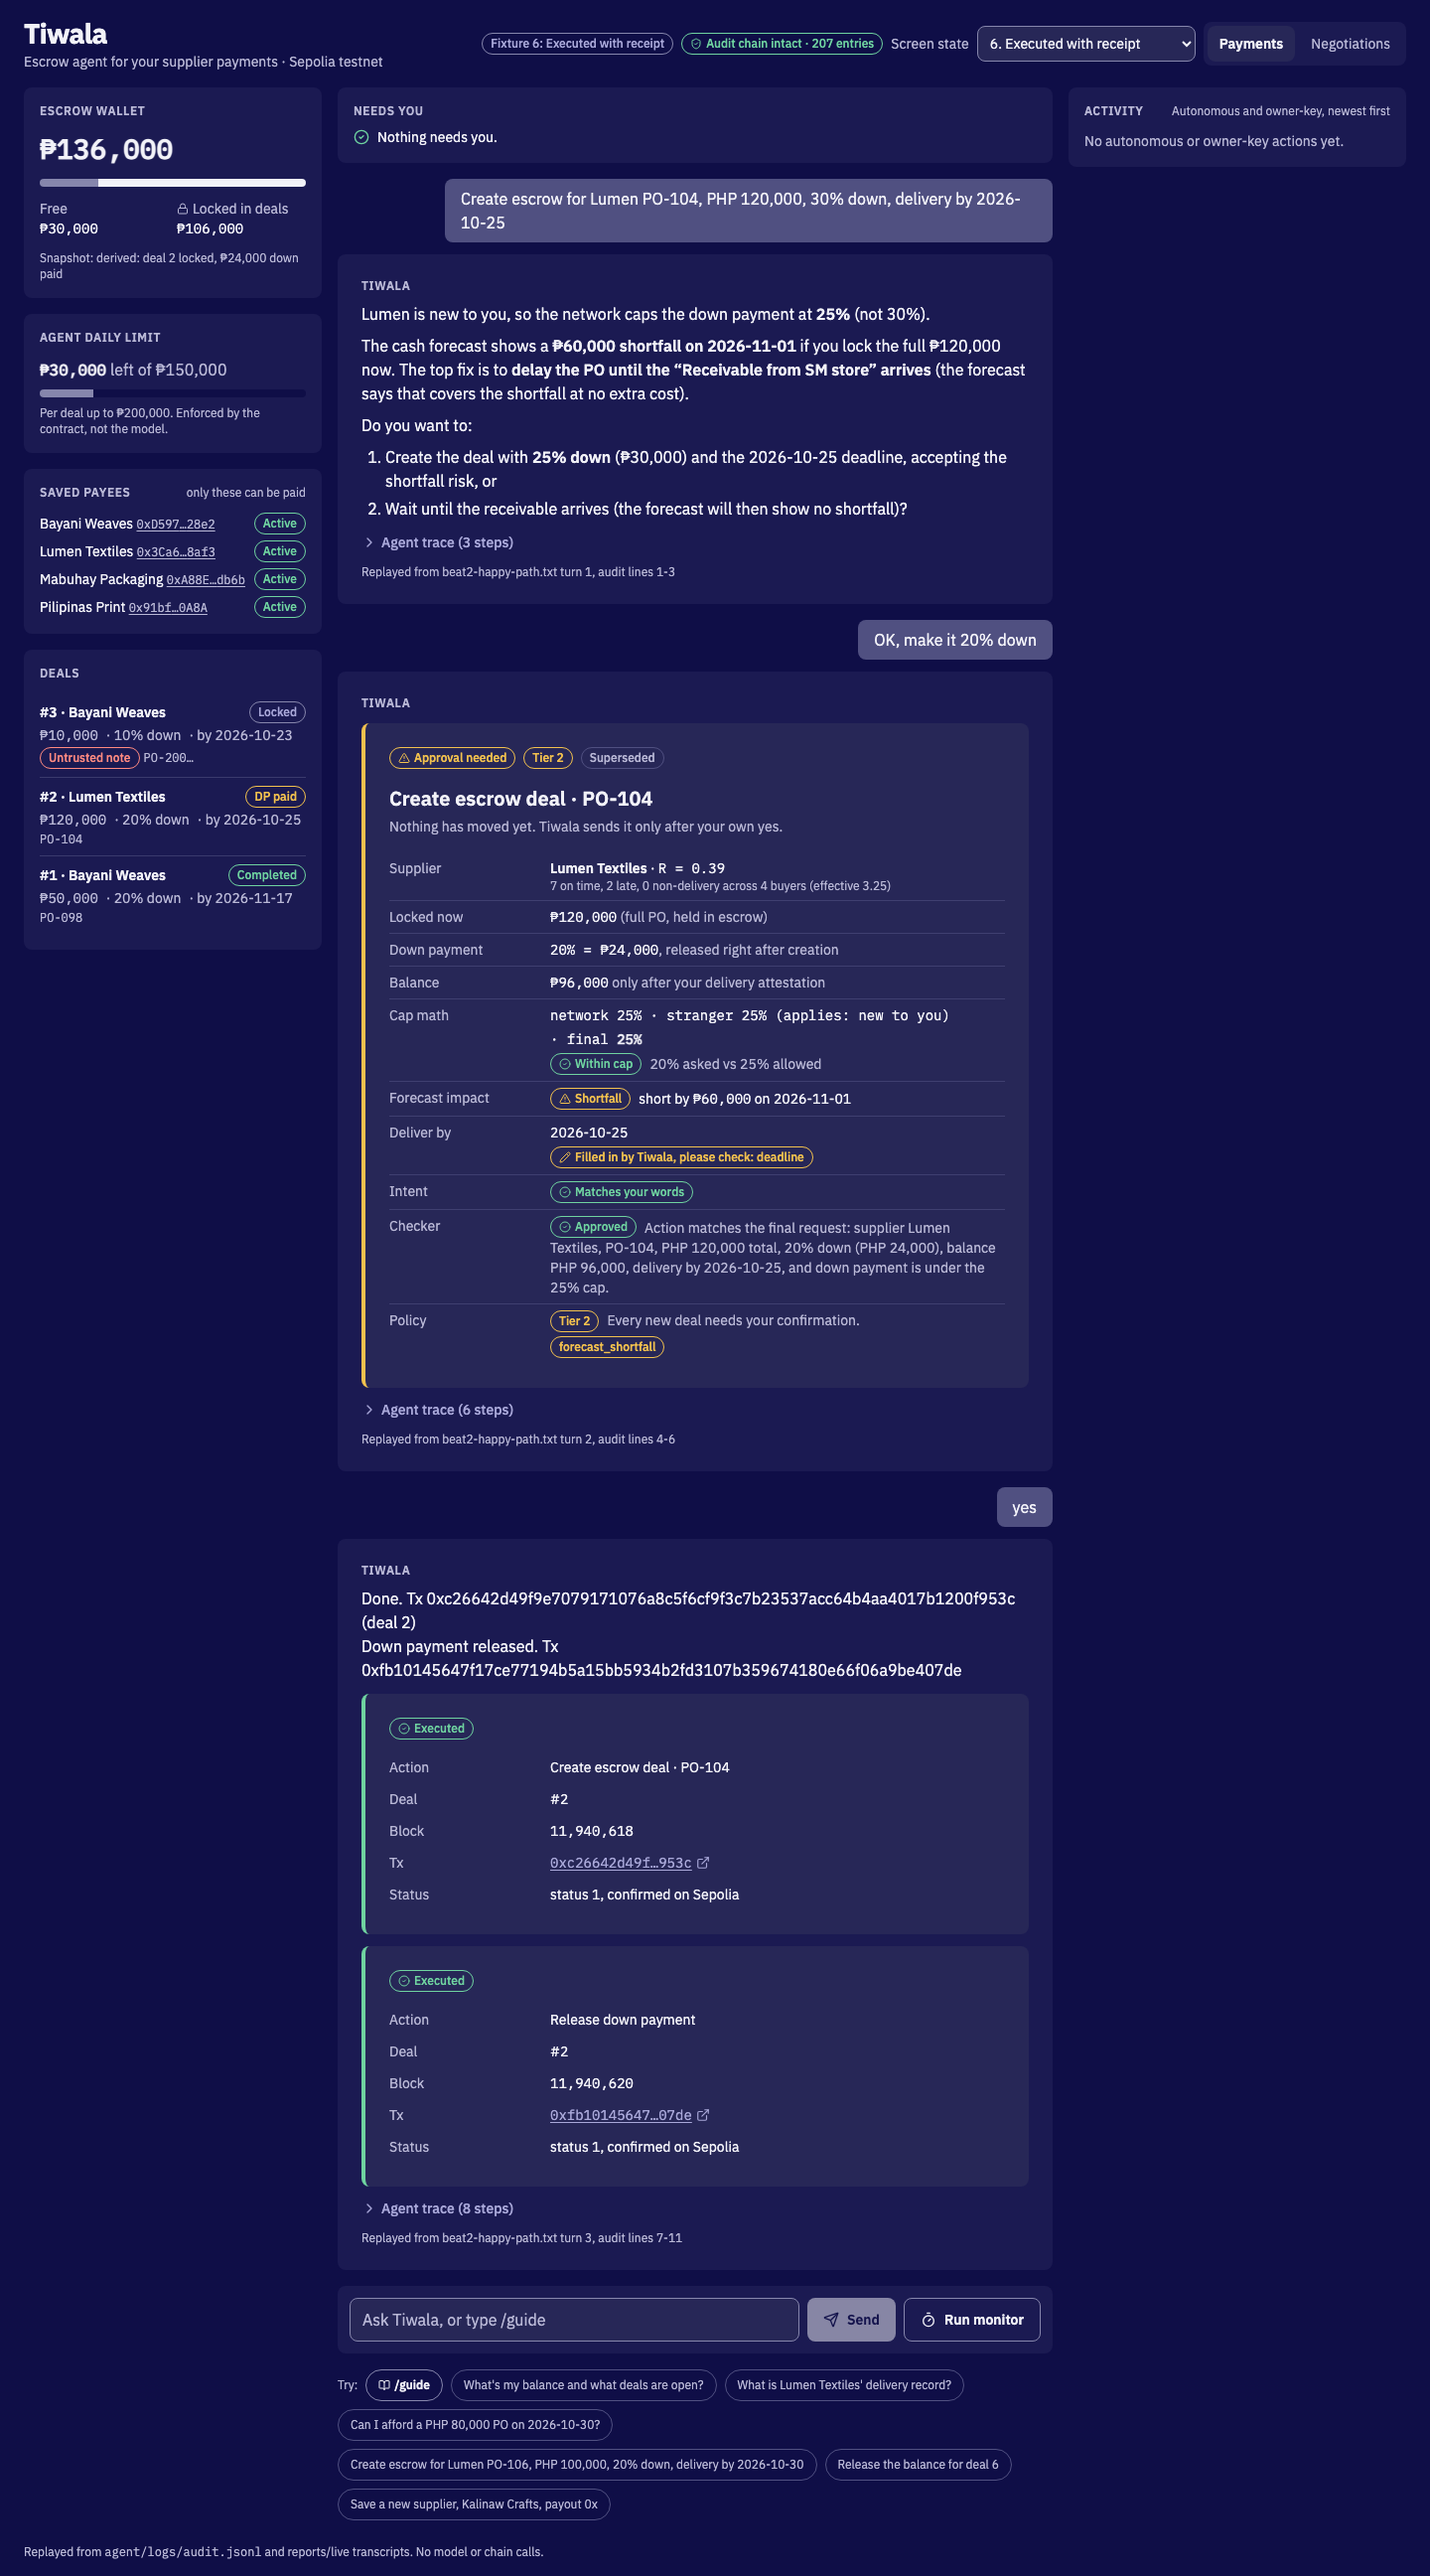
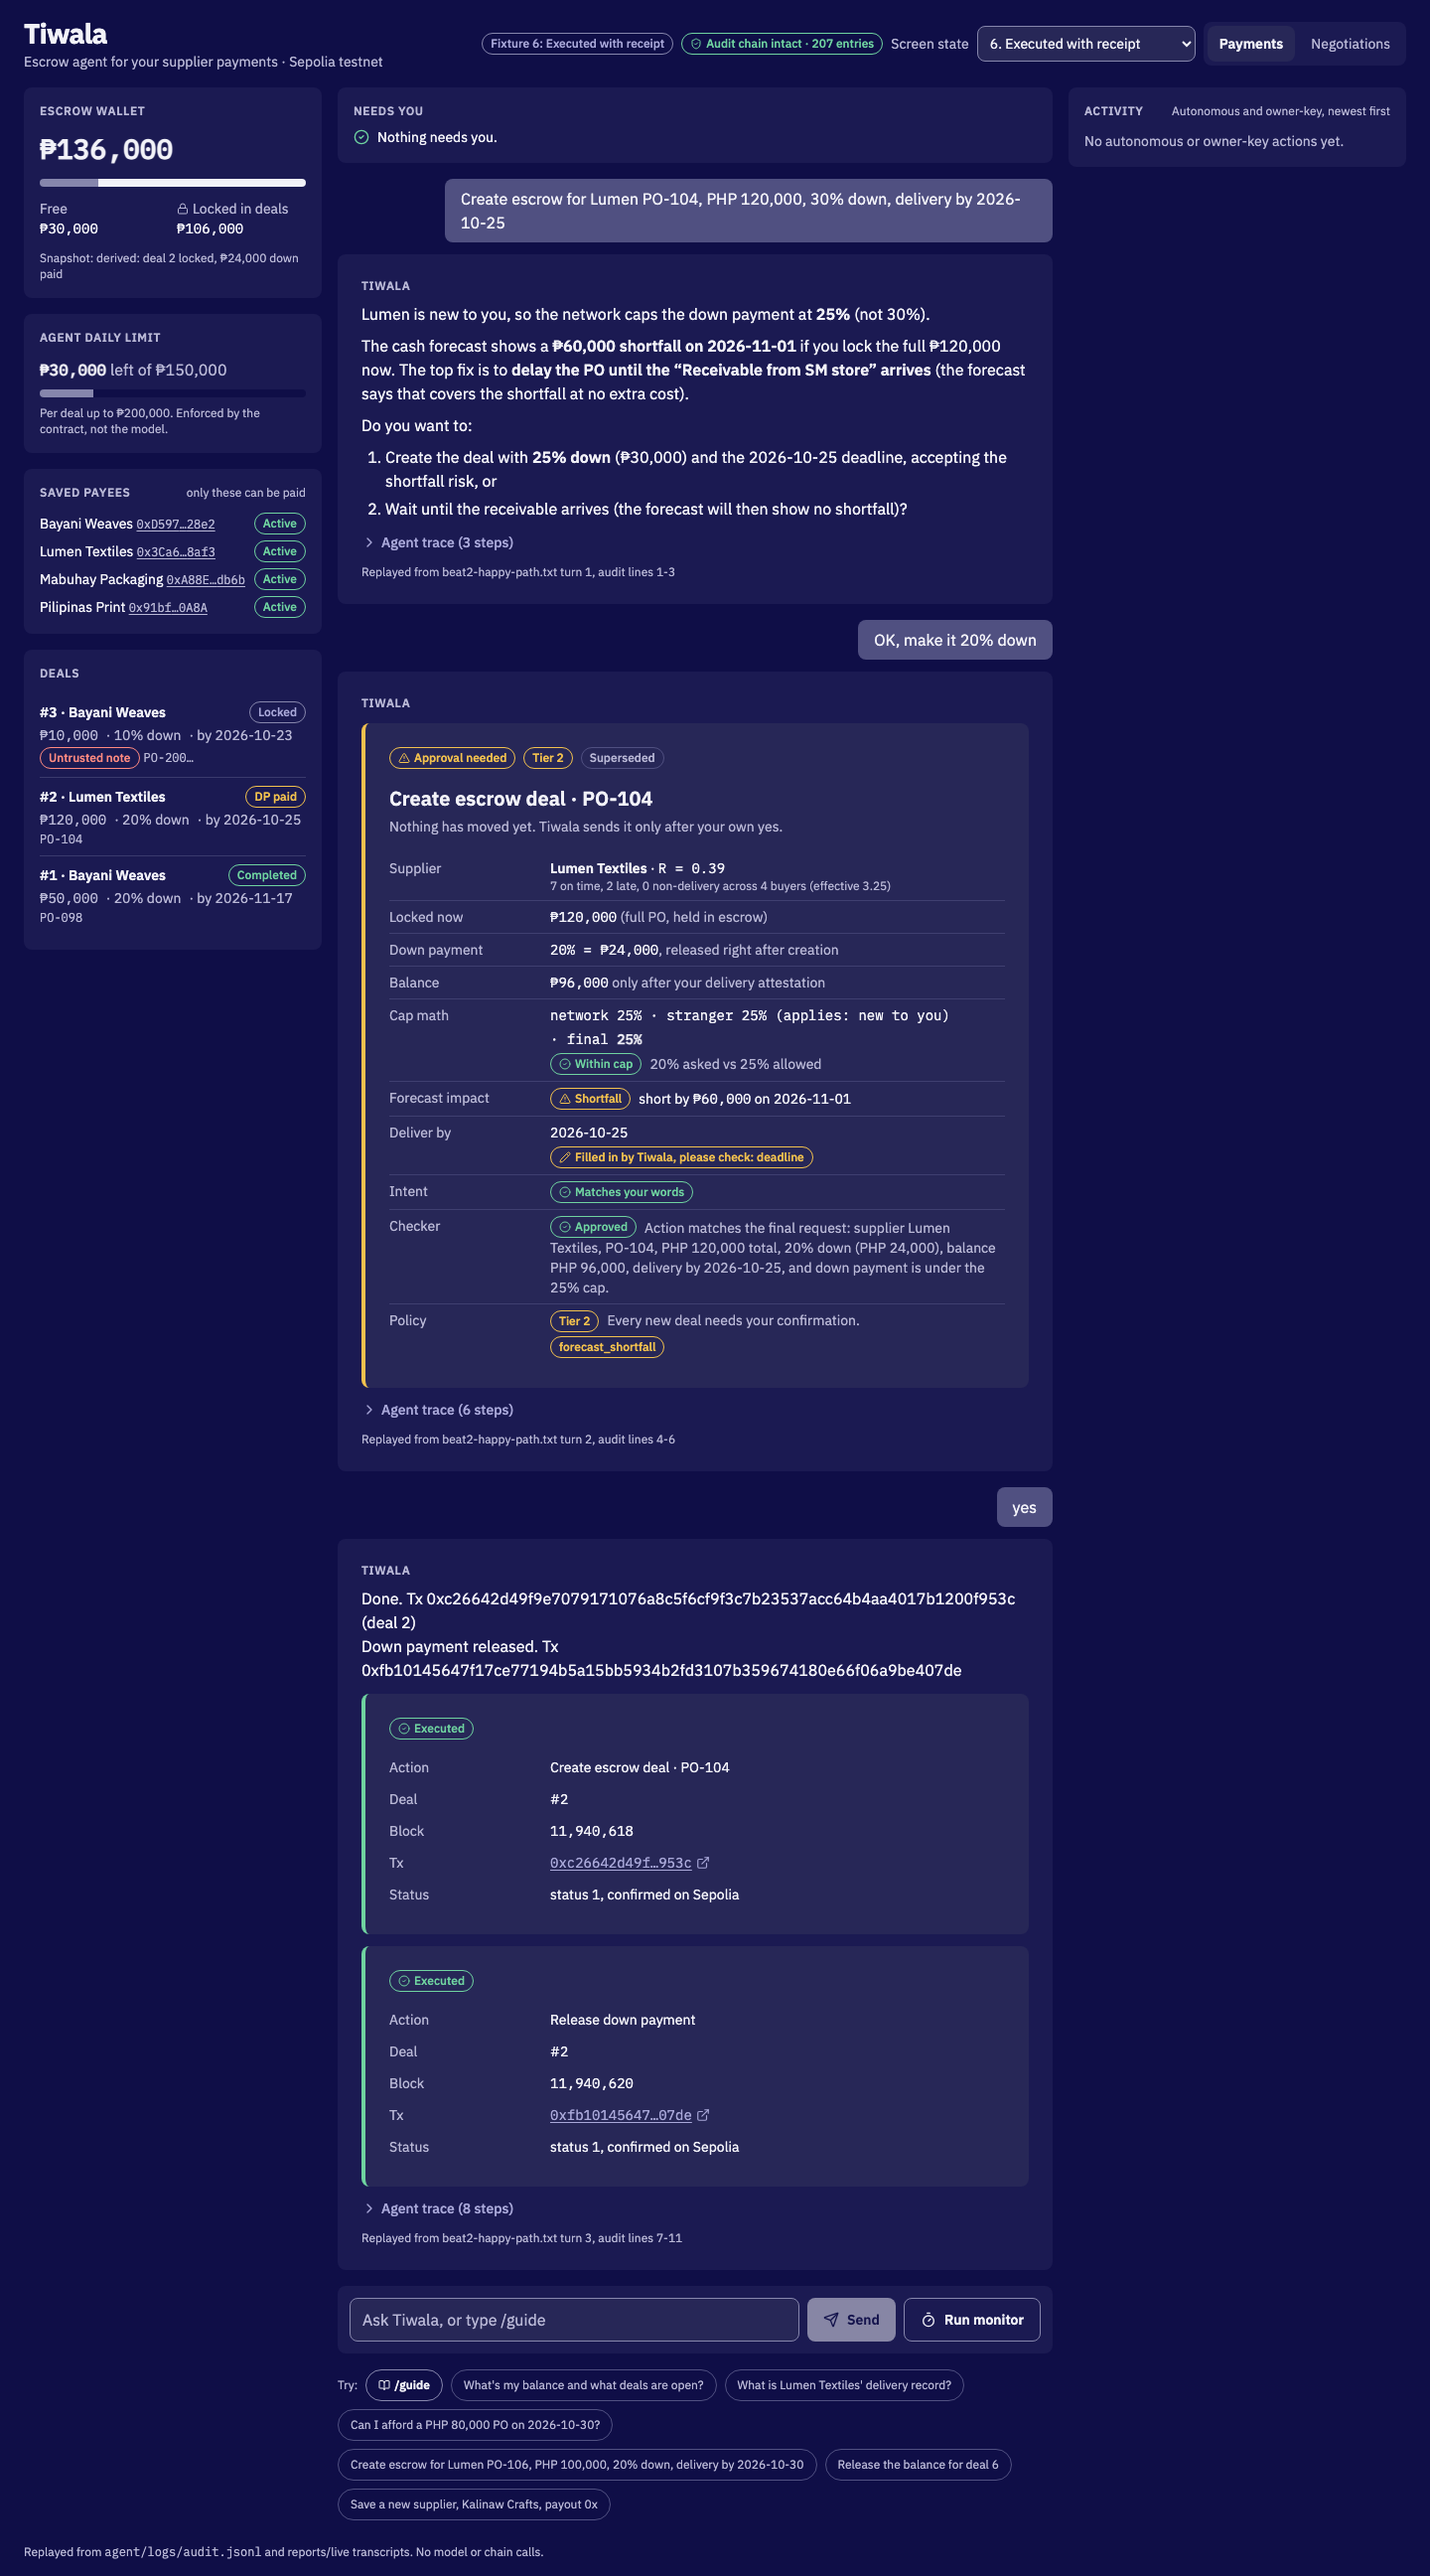
Clear UI errors for a stopped or slow server; warm the negotiation view at startup; explain why WhatsApp cannot send
Fetches go through one wrapper that reports a stopped server or a timeout instead
of Safari's bare connection error. The first negotiations load drops from ~12 s to
~30 ms. The WhatsApp status lists missing configuration, and blocked or failed
messages show their reason.

diff --git a/ui/src/Negotiate.jsx b/ui/src/Negotiate.jsx
@@ -2,7 +2,7 @@ import { useEffect, useState } from "react";
 import { ArrowRight, Ban, Bot, CheckCircle2, Clock, FileWarning, Handshake, KeyRound, Lock, MessageSquare, Phone, Send, ShieldAlert, User, XCircle } from "lucide-react";
 import clsx from "clsx";
 import { Button, Card, Chip, Panel, Row } from "./components/ui.jsx";
-import { day, peso, short, txUrl, when } from "./lib.js";
+import { day, peso, request, short, txUrl, when } from "./lib.js";
 
 const P = (units) => peso(units / 100, 2);
 const STATE = {
@@ -21,7 +21,7 @@ const FIELD = { quantity: "Quantity", unit_price: "Unit price", total: "Total", 
 const fmt = (k, v) => (k === "quantity" ? v.toLocaleString("en-US") : k === "deposit_bps" ? `${v / 100}%` : k === "deliver_by" ? day(v) : P(v));
 
 async function call(path, method = "GET", body) {
-  const r = await fetch(path, { method, headers: { "Content-Type": "application/json" }, body: body ? JSON.stringify(body) : undefined });
+  const r = await request(path, { method, headers: { "Content-Type": "application/json" }, body: body ? JSON.stringify(body) : undefined });
   const j = await r.json().catch(() => ({}));
   if (!r.ok) throw new Error(j.detail || `${r.status}`);
   return j;
@@ -104,6 +104,7 @@ function Conversation({ n }) {
                   {(m.flags || []).map((f) => <Chip key={f} tone="bad" icon={ShieldAlert}>{f}</Chip>)}
                 </p>
                 {m.text}
+                {o?.error && <p className="mt-1 text-cap text-bad">Not sent: {o.error}</p>}
               </div>
             </li>
           );
@@ -292,6 +293,15 @@ export default function Negotiate() {
         </div>
       </header>
       {err && <p role="alert" className="mb-4 rounded border border-bad bg-raised p-3 text-sm text-bad">{err}</p>}
+      {!fixture && data.whatsapp?.missing?.length > 0 && (
+        <details className="mb-4 rounded border border-subtle bg-surface p-3 text-sm">
+          <summary className="cursor-pointer text-ink-2">Why live WhatsApp cannot send yet ({data.whatsapp.missing.length})</summary>
+          <ul className="mt-2 list-disc space-y-1 pl-5 text-ink-2">
+            {data.whatsapp.missing.map((x) => <li key={x}>{x}</li>)}
+            <li>Each supplier also needs an opted-in WhatsApp contact; only local simulator contacts exist now.</li>
+          </ul>
+        </details>
+      )}
       <div className="grid gap-4 lg:grid-cols-[320px_minmax(0,1fr)] xl:grid-cols-[320px_minmax(0,1fr)_360px]">
         <aside className="space-y-4" aria-label="Negotiations">
           {!fixture && data.payees && <NewNegotiation payees={data.payees} onOpen={open} busy={busy} />}

diff --git a/ui/src/lib.js b/ui/src/lib.js
@@ -26,13 +26,32 @@ export function query() {
 }
 const q = (fixture) => (fixture ? `?fixture=${encodeURIComponent(fixture)}` : "");
 
+export const SERVER_DOWN = "Cannot reach the Tiwala server. It is not running or it restarted. Start it with: "
+  + "cd agent && ../.venv/bin/uvicorn console.server:app --port 8000, then reload this page.";
+
+/** fetch with a clear message for a dead server or a slow model/chain instead of a bare "Load failed". */
+export async function request(path, opts = {}, timeoutS = 120) {
+  const ctl = new AbortController();
+  const t = setTimeout(() => ctl.abort(), timeoutS * 1000);
+  try {
+    return await fetch(path, { ...opts, signal: ctl.signal });
+  } catch (e) {
+    if (e.name === "AbortError") {
+      throw new Error(`No answer from the server after ${timeoutS} s. The model or the chain RPC may be slow; try again.`);
+    }
+    throw new Error(SERVER_DOWN);
+  } finally {
+    clearTimeout(t);
+  }
+}
+
 export async function getJSON(path, fixture) {
-  const r = await fetch(path + q(fixture));
+  const r = await request(path + q(fixture));
   if (!r.ok) throw new Error(`${path}: ${r.status}`);
   return r.json();
 }
 export async function postJSON(path, fixture, body) {
-  const r = await fetch(path + q(fixture), {
+  const r = await request(path + q(fixture), {
     method: "POST", headers: { "Content-Type": "application/json" }, body: JSON.stringify(body || {}),
   });
   if (!r.ok) throw new Error(`${path}: ${r.status}`);
@@ -41,14 +60,15 @@ export async function postJSON(path, fixture, body) {
 
 /** POST /api/message and read the SSE stream: onStep per event, resolves with the reply payload. */
 export async function sendMessage(text, fixture, onStep) {
-  const r = await fetch("/api/message" + q(fixture), {
+  const r = await request("/api/message" + q(fixture), {
     method: "POST", headers: { "Content-Type": "application/json" }, body: JSON.stringify({ text }),
-  });
+  }, 300);
+  if (!r.ok || !r.body) throw new Error(`/api/message: ${r.status}`);
   const reader = r.body.getReader();
   const dec = new TextDecoder();
   let buf = "", result = null;
   for (;;) {
-    const { value, done } = await reader.read();
+    const { value, done } = await reader.read().catch(() => { throw new Error(SERVER_DOWN); });
     if (done) break;
     buf += dec.decode(value, { stream: true });
     let i;

diff --git a/ui/src/SupplierView.jsx b/ui/src/SupplierView.jsx
@@ -1,7 +1,7 @@
 import { useEffect, useState } from "react";
 import { Bot, CheckCircle2, FileWarning, Hand, Play, Save, Send, User, XCircle } from "lucide-react";
 import { Button, Card, Chip, Panel } from "./components/ui.jsx";
-import { day, peso, when } from "./lib.js";
+import { day, peso, request, when } from "./lib.js";
 import { ModeChips } from "./Negotiate.jsx";
 
 const P = (u) => peso(u / 100, 2);
@@ -14,12 +14,12 @@ export default function SupplierView() {
   const [d, setD] = useState(null);
   const [err, setErr] = useState("");
   const [busy, setBusy] = useState(false);
-  const load = () => fetch(`/api/supplier${base}`).then(async (r) => { const j = await r.json(); if (!r.ok) throw new Error(j.detail); setD(j); }).catch((e) => setErr(String(e.message)));
+  const load = () => request(`/api/supplier${base}`).then(async (r) => { const j = await r.json(); if (!r.ok) throw new Error(j.detail); setD(j); }).catch((e) => setErr(String(e.message)));
   useEffect(() => { load(); const id = fixture ? null : setInterval(load, 2000); return () => id && clearInterval(id); }, []);
   const post = async (path, body, method = "POST") => {
     setBusy(true); setErr("");
     try {
-      const r = await fetch(path + (path.includes("?") ? "&" : "?") + `supplier=${supplier}&token=${token}`, { method, headers: { "Content-Type": "application/json" }, body: body ? JSON.stringify(body) : undefined });
+      const r = await request(path + (path.includes("?") ? "&" : "?") + `supplier=${supplier}&token=${token}`, { method, headers: { "Content-Type": "application/json" }, body: body ? JSON.stringify(body) : undefined });
       const j = await r.json(); if (!r.ok) throw new Error(j.detail); await load();
     } catch (e) { setErr(String(e.message)); } finally { setBusy(false); }
   };

diff --git a/ui/playwright.config.js b/ui/playwright.config.js
@@ -7,7 +7,7 @@ export default defineConfig({
   reporter: [["list"]],
   use: { baseURL: "http://127.0.0.1:8000" },
   webServer: {
-    command: "cd ../agent && ../.venv/bin/uvicorn console.server:app --port 8000",
+    command: "cd ../agent && TIWALA_NO_WARM=1 ../.venv/bin/uvicorn console.server:app --port 8000",
     url: "http://127.0.0.1:8000/api/fixtures",
     reuseExistingServer: true,
   },

diff --git a/agent/tiwala_agent/whatsapp.py b/agent/tiwala_agent/whatsapp.py
@@ -76,7 +76,24 @@ class Config:
     def status(self) -> dict:
         """Safe to show: which pieces are configured, never their values."""
         return {"receive": self.can_receive, "send": self.can_send, "template": bool(self.template_name),
-                "allowed_recipients": len(self.allowed), "graph_version": self.graph_version}
+                "allowed_recipients": len(self.allowed), "graph_version": self.graph_version, "missing": self.missing()}
+
+    def missing(self) -> list[str]:
+        """Why a live WhatsApp send or receive would fail right now, in plain words (names only, no values)."""
+        out = []
+        if not (self.access_token and self.phone_number_id):
+            out.append("No Meta credentials: WHATSAPP_ACCESS_TOKEN and WHATSAPP_PHONE_NUMBER_ID are empty in .env.")
+        if not self.live_send:
+            out.append("Live sending is off: WHATSAPP_LIVE_SEND is not 1.")
+        if not self.allowed:
+            out.append("No WHATSAPP_ALLOWED_RECIPIENTS: every live recipient is refused.")
+        if not self.can_receive:
+            out.append("Supplier replies cannot arrive: WHATSAPP_APP_SECRET and WHATSAPP_VERIFY_TOKEN are empty, and Meta "
+                       "needs a public HTTPS webhook URL (localhost is unreachable).")
+        if not self.template_name:
+            out.append("No approved template (WHATSAPP_TEMPLATE_NAME): a first message, or one sent more than 24 h after "
+                       "the supplier's last message, is blocked.")
+        return out
 
 
 # ---------------------------------------------------------------------- webhook primitives

diff --git a/agent/console/server.py b/agent/console/server.py
@@ -240,6 +240,22 @@ from .negotiation_api import router as negotiation_router  # noqa: E402
 
 app.include_router(negotiation_router)
 
+
+@app.on_event("startup")
+def _warm():
+    """Build the live agent and the negotiation view in the background, so the first page load is not a 10 s+
+    chain read. Skipped with TIWALA_NO_WARM=1 (UI shots use fixtures only)."""
+    if os.environ.get("TIWALA_NO_WARM") == "1":
+        return
+    from .negotiation_api import list_negotiations
+
+    def run():
+        try:
+            list_negotiations(None)
+        except Exception as e:  # no .env or RPC down: the request path reports it when someone asks
+            print(f"warm-up skipped: {type(e).__name__}: {e}")
+    threading.Thread(target=run, daemon=True).start()
+
 if DIST.exists():
     app.mount("/assets", StaticFiles(directory=DIST / "assets"), name="assets")
 

diff --git a/agent/tests/test_negotiation.py b/agent/tests/test_negotiation.py
@@ -364,3 +364,12 @@ def test_supplier_model_gets_one_corrective_retry(world):
     move = agent.decide(world["eng"].store.get(n.id).public())
     assert move["type"] == "counter" and move["terms"].deposit_bps == 2000
     assert "20% for 450 units" in llm.calls[1]["messages"][-1]["content"]  # told which mandate rule it broke
+
+
+def test_whatsapp_status_explains_what_is_missing():
+    from tiwala_agent.whatsapp import Config
+    empty = Config().status()
+    assert not empty["send"] and len(empty["missing"]) == 5
+    full = Config("tok", "pnid", "sec", "ver", template_name="tpl", live_send=True, allowed=("639170000000",)).status()
+    assert full["send"] and full["receive"] and full["missing"] == []
+    assert "tok" not in json.dumps(full) and "sec" not in json.dumps(full)

diff --git a/docs/negotiation.md b/docs/negotiation.md
@@ -79,6 +79,20 @@ live use.
 tested. The adapter is covered by unit tests (signature, verification, parsing, dedup, window, template, allowlist,
 opt-out) and the simulator runs the same engine.
 
+### Why a message does not send
+
+The Negotiations page lists what is missing ("Why live WhatsApp cannot send yet"), and each blocked or failed
+message shows its reason. In order, a live send needs:
+
+1. `WHATSAPP_ACCESS_TOKEN` and `WHATSAPP_PHONE_NUMBER_ID` from a Meta app, and `WHATSAPP_LIVE_SEND=1`.
+2. The recipient's number in `WHATSAPP_ALLOWED_RECIPIENTS`.
+3. An opted-in contact for that supplier (today only simulator contacts exist, via `POST /api/sim/whatsapp/contact`).
+4. Free text only within 24 h of the supplier's last message; otherwise an approved `WHATSAPP_TEMPLATE_NAME`.
+5. For replies: `WHATSAPP_APP_SECRET`, `WHATSAPP_VERIFY_TOKEN` and a public HTTPS webhook URL registered in the
+   Meta app. Localhost is unreachable, so use a tunnel or a hosted server.
+
+Outbound records are in `agent/data/negotiation/whatsapp/outbox.json`.
+
 ## Demos (recorded, `reports/negotiation/`)
 
 | Demo | Result | Validation |
